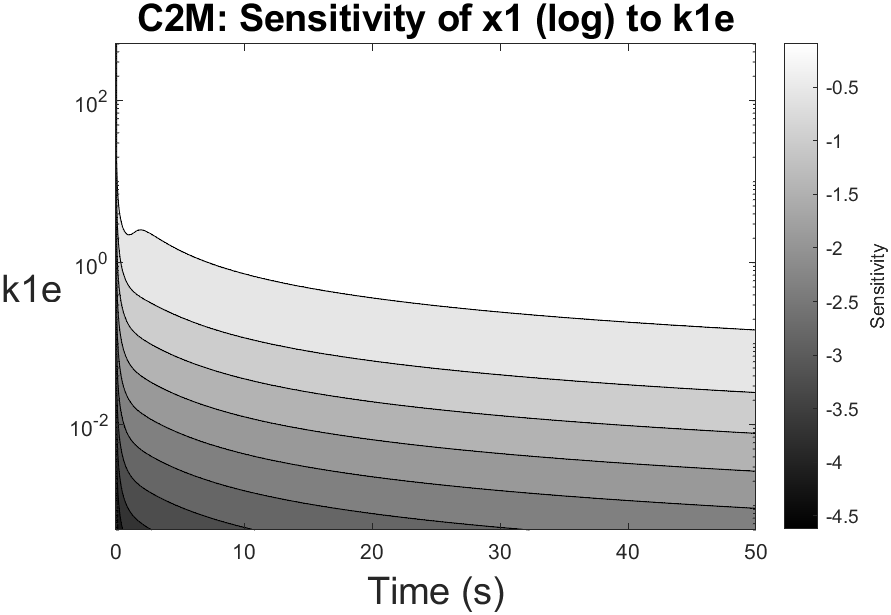
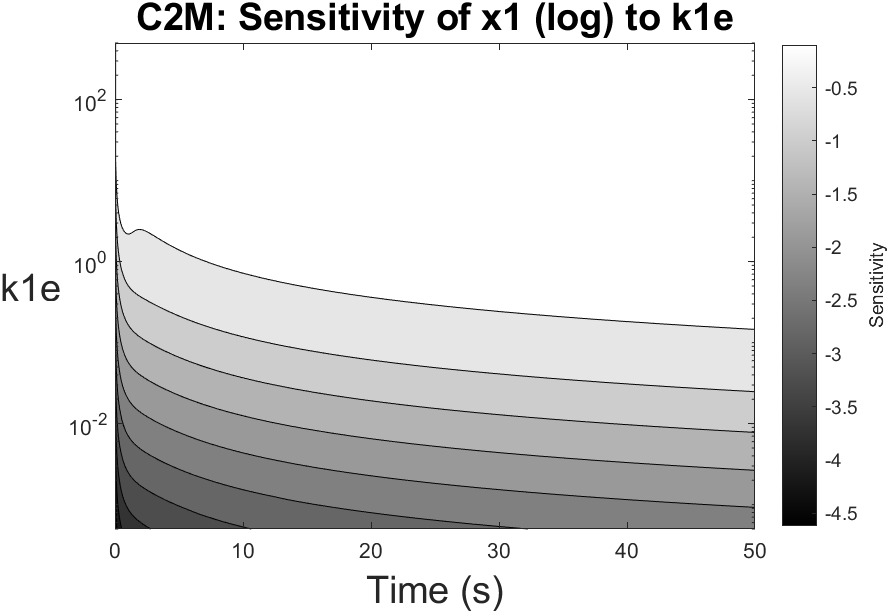
Support selective params and refactor sensitivity
Enable choosing which parameters to analyze and refactor the sensitivity loop. Added model.whichParamsAll/whichParams to C2M and OccupancyTCR option files, updated sensitivityParams.m to handle both "all parameters" and a selected subset (with parallel and non-parallel flows unified, waitbar updates, and plotting). Also changed default model to C2M in options.m and disabled the debug Test run in Main.m. Updated solver tolerances in run_options.txt (1e-4) and regenerated related sensitivity result images.

diff --git a/v.6/src/sensitivityParams.m b/v.6/src/sensitivityParams.m
@@ -2,92 +2,186 @@ function sensitivityParams(model, opts, ode_function)
 
         param_values_original = model.param_values;
         x0_real = model.x0;
-        num_params = length(model.param_values);
-        
-        % === LOOP OF PARAMETERS TO ANALYZE ===
-        % (Puede ser con cálculo paralelo o de manera normal)
-        h = waitbar(0, 'Computing sensitivity for parameter...');
-        for pI = 1:num_params  
-            tic
-            
-            if model.range_type == 1
 
-                % 3 magnitudes por encima y 3 por debajo
-                p0 = param_values_original(pI);
-                rango_min_param = p0 * 1e-3;
-                rango_max_param = p0 * 1e3;
-                ModelVect = logspace(log10(rango_min_param), log10(rango_max_param), model.number_samples);
+        if model.whichParamsAll
+            num_params = length(model.param_values);
             
-            elseif model.range_type == 2
-               
-                rango_min_param = model.param_ranges(pI,1);
-                rango_max_param = model.param_ranges(pI,2);
-                ModelVect = logspace(log10(rango_min_param), log10(rango_max_param), model.number_samples);
-            
-            elseif model.range_type == 3
-
-                ModelVect = model.param_ranges{pI};
-                model.number_samples = length(ModelVect);
-            
-            end 
+            % === LOOP OF PARAMETERS TO ANALYZE ===
+            % (Puede ser con cálculo paralelo o de manera normal)
+            h = waitbar(0, 'Computing sensitivity for parameter...');
+            for pI = 1:num_params  
+                tic
+                
+                if model.range_type == 1
     
-            results_matrix = zeros(model.number_samples, length(model.tspan));
+                    % 3 magnitudes por encima y 3 por debajo
+                    p0 = param_values_original(pI);
+                    rango_min_param = p0 * 1e-3;
+                    rango_max_param = p0 * 1e3;
+                    ModelVect = logspace(log10(rango_min_param), log10(rango_max_param), model.number_samples);
+                
+                elseif model.range_type == 2
+                   
+                    rango_min_param = model.param_ranges(pI,1);
+                    rango_max_param = model.param_ranges(pI,2);
+                    ModelVect = logspace(log10(rango_min_param), log10(rango_max_param), model.number_samples);
+                
+                elseif model.range_type == 3
+    
+                    ModelVect = model.param_ranges{pI};
+                    model.number_samples = length(ModelVect);
+                
+                end 
         
-            if opts.usar_paralelo
+                results_matrix = zeros(model.number_samples, length(model.tspan));
             
-                % En cálculo paralelo crearía problemas de eficiencia pasar las
-                % variables en forma de struct (sale un warning)
-                d = opts.d;
-                solver = opts.solver;
-                rel_tol = opts.rel_tol;
-                abs_tol = opts.abs_tol;
-    
-                parfor i = 1:model.number_samples
-    
-                    local_params = param_values_original;
-                    local_params(pI) = ModelVect(i);
-                    p = complex(local_params, 0);        
+                if opts.usar_paralelo
+                
+                    % En cálculo paralelo crearía problemas de eficiencia pasar las
+                    % variables en forma de struct (sale un warning)
+                    d = opts.d;
+                    solver = opts.solver;
+                    rel_tol = opts.rel_tol;
+                    abs_tol = opts.abs_tol;
+        
+                    parfor i = 1:model.number_samples
+        
+                        local_params = param_values_original;
+                        local_params(pI) = ModelVect(i);
+                        p = complex(local_params, 0);        
+                
+                        % Run the ODE integration with the modified parameters
+                        sol = sensitivityMain(x0_real, p, d, model.tspan, ode_function, solver, rel_tol, abs_tol);
+                
+                        % Extract the response corresponding to the status of interest
+                        response = sol{model.state_index}(:, pI + 1);
+                        % Evolución del estado sin sensibilizar al parámetro
+                        evoX = sol{model.state_index}(:, 1);
+                        normalized = (response .* ModelVect(i)) ./ evoX;
+                        results_matrix(i, :) = normalized;
+                    end
+                else
             
-                    % Run the ODE integration with the modified parameters
-                    sol = sensitivityMain(x0_real, p, d, model.tspan, ode_function, solver, rel_tol, abs_tol);
+                    for i = 1:model.number_samples
+                        
+                        % No modifico el original, hago una copia cada vez
+                        local_params = param_values_original;
+                        % Equivalente a p = complex([5e-5, koffVect(i), 1, 0.09, 1000, 10000, 1000], 0);
+                        local_params(pI) = ModelVect(i);
+                        p = complex(local_params, 0);        
+                
+                        % Run the ODE integration with the modified parameters
+                        sol = sensitivityMain(x0_real, p, opts.d, model.tspan, ode_function, opts.solver, opts.rel_tol, opts.abs_tol);
+                
+                        % Extract the response corresponding to the status of interest
+                        response = sol{model.state_index}(:, pI + 1);
+                        % Evolución del estado sin sensibilizar al parámetro
+                        evoX = sol{model.state_index}(:, 1);
+                        normalized = (response .* ModelVect(i)) ./ evoX;
+                        results_matrix(i, :) = normalized;
+                    end
             
-                    % Extract the response corresponding to the status of interest
-                    response = sol{model.state_index}(:, pI + 1);
-                    % Evolución del estado sin sensibilizar al parámetro
-                    evoX = sol{model.state_index}(:, 1);
-                    normalized = (response .* ModelVect(i)) ./ evoX;
-                    results_matrix(i, :) = normalized;
                 end
-            else
+                
+                waitbar(pI / num_params, h, ...
+                sprintf('Processing parameter %d of %d', pI, num_params));
         
-                for i = 1:model.number_samples
-                    
-                    % No modifico el original, hago una copia cada vez
-                    local_params = param_values_original;
-                    % Equivalente a p = complex([5e-5, koffVect(i), 1, 0.09, 1000, 10000, 1000], 0);
-                    local_params(pI) = ModelVect(i);
-                    p = complex(local_params, 0);        
-            
-                    % Run the ODE integration with the modified parameters
-                    sol = sensitivityMain(x0_real, p, opts.d, model.tspan, ode_function, opts.solver, opts.rel_tol, opts.abs_tol);
-            
-                    % Extract the response corresponding to the status of interest
-                    response = sol{model.state_index}(:, pI + 1);
-                    % Evolución del estado sin sensibilizar al parámetro
-                    evoX = sol{model.state_index}(:, 1);
-                    normalized = (response .* ModelVect(i)) ./ evoX;
-                    results_matrix(i, :) = normalized;
-                end
-        
+                PlotResults(results_matrix, ode_function, model.param_values, model.x0, model.tspan, ModelVect, pI, model.state_index, model.param_names, model.state_names, opts);
+                disp(['Generated figures for parameter ' num2str(pI) ' of ' num2str(length(model.param_values))]);
+                toc
             end
+            close(h);
+        else
+
+            num_params = length(model.whichParams);
+            [found, idx] = ismember(model.whichParams, model.param_names);
             
-            waitbar(pI / num_params, h, ...
-            sprintf('Processing parameter %d of %d', pI, num_params));
+            % === LOOP OF PARAMETERS TO ANALYZE ===
+            % (Puede ser con cálculo paralelo o de manera normal)
+            h = waitbar(0, 'Computing sensitivity for parameter...');
+            for pI = idx  
+                tic
+                
+                if model.range_type == 1
     
-            PlotResults(results_matrix, ode_function, model.param_values, model.x0, model.tspan, ModelVect, pI, model.state_index, model.param_names, model.state_names, opts);
-            disp(['Generated figures for parameter ' num2str(pI) ' of ' num2str(length(model.param_values))]);
-            toc
+                    % 3 magnitudes por encima y 3 por debajo
+                    p0 = param_values_original(pI);
+                    rango_min_param = p0 * 1e-3;
+                    rango_max_param = p0 * 1e3;
+                    ModelVect = logspace(log10(rango_min_param), log10(rango_max_param), model.number_samples);
+                
+                elseif model.range_type == 2
+                   
+                    rango_min_param = model.param_ranges(pI,1);
+                    rango_max_param = model.param_ranges(pI,2);
+                    ModelVect = logspace(log10(rango_min_param), log10(rango_max_param), model.number_samples);
+                
+                elseif model.range_type == 3
+    
+                    ModelVect = model.param_ranges{pI};
+                    model.number_samples = length(ModelVect);
+                
+                end 
+        
+                results_matrix = zeros(model.number_samples, length(model.tspan));
+            
+                if opts.usar_paralelo
+                
+                    % En cálculo paralelo crearía problemas de eficiencia pasar las
+                    % variables en forma de struct (sale un warning)
+                    d = opts.d;
+                    solver = opts.solver;
+                    rel_tol = opts.rel_tol;
+                    abs_tol = opts.abs_tol;
+        
+                    parfor i = 1:model.number_samples
+        
+                        local_params = param_values_original;
+                        local_params(pI) = ModelVect(i);
+                        p = complex(local_params, 0);        
+                
+                        % Run the ODE integration with the modified parameters
+                        sol = sensitivityMain(x0_real, p, d, model.tspan, ode_function, solver, rel_tol, abs_tol);
+                
+                        % Extract the response corresponding to the status of interest
+                        response = sol{model.state_index}(:, pI + 1);
+                        % Evolución del estado sin sensibilizar al parámetro
+                        evoX = sol{model.state_index}(:, 1);
+                        normalized = (response .* ModelVect(i)) ./ evoX;
+                        results_matrix(i, :) = normalized;
+                    end
+                else
+            
+                    for i = 1:model.number_samples
+                        
+                        % No modifico el original, hago una copia cada vez
+                        local_params = param_values_original;
+                        % Equivalente a p = complex([5e-5, koffVect(i), 1, 0.09, 1000, 10000, 1000], 0);
+                        local_params(pI) = ModelVect(i);
+                        p = complex(local_params, 0);        
+                
+                        % Run the ODE integration with the modified parameters
+                        sol = sensitivityMain(x0_real, p, opts.d, model.tspan, ode_function, opts.solver, opts.rel_tol, opts.abs_tol);
+                
+                        % Extract the response corresponding to the status of interest
+                        response = sol{model.state_index}(:, pI + 1);
+                        % Evolución del estado sin sensibilizar al parámetro
+                        evoX = sol{model.state_index}(:, 1);
+                        normalized = (response .* ModelVect(i)) ./ evoX;
+                        results_matrix(i, :) = normalized;
+                    end
+            
+                end
+                
+                waitbar(pI / num_params, h, ...
+                sprintf('Processing parameter %d of %d', pI, num_params));
+        
+                PlotResults(results_matrix, ode_function, model.param_values, model.x0, model.tspan, ModelVect, pI, model.state_index, model.param_names, model.state_names, opts);
+                disp(['Generated figures for parameter ' num2str(pI) ' of ' num2str(length(model.param_values))]);
+                toc
+            end
+            close(h);
+
         end
-        close(h);
 
 end

diff --git a/v.6/models/OccupancyTCR_options.m b/v.6/models/OccupancyTCR_options.m
@@ -13,6 +13,12 @@ model.x0 = [0, 100, 2e4];
 % === STATE TO ANALYZE ===
 model.state_to_analyze = 'C0';
 
+% === TO WHICH PARAMETERS WOULD YOU LIKE TO ANALYSE? ===
+% All the parameters?
+model.whichParamsAll = true;
+% Define the parameters
+model.whichParams = {'kon', 'koff'};
+
 % === TIME CONFIGURATION ===
 model.step_size = 0.05;
 model.t_end     = 50;

diff --git a/v.6/models/C2M_options.m b/v.6/models/C2M_options.m
@@ -13,6 +13,12 @@ model.x0 = [0.5, 0.5];
 % === STATE TO ANALYZE ===
 model.state_to_analyze = 'x1';
 
+% === TO WHICH PARAMETERS WOULD YOU LIKE TO ANALYSE? ===
+% All the parameters?
+model.whichParamsAll = false;
+% Define the parameters
+model.whichParams = {'k1e', 'k21'};
+
 % === TIME CONFIGURATION ===
 model.step_size = 0.05;
 model.t_end     = 50;

diff --git a/v.6/options.m b/v.6/options.m
@@ -5,7 +5,7 @@ function opts = options()
 
     % === MODEL SELECTION ===
     %   Acronym given to the model in the file in models folder
-    opts.modelname     = 'OccupancyTCR';          
+    opts.modelname     = 'C2M';          
     
     % === TOLERANCES ===
     opts.rel_tol = 1e-4;                 %   Relative Tolerance.   

diff --git a/v.6/Main.m b/v.6/Main.m
@@ -32,7 +32,7 @@ addpath('models');
 
 % Test previo de tiempos e integradores: probar todos los integradores
 % existentes de Matlab y comprobar los tiempos de integración y exactitud.
-Test = true;
+Test = false;
 if Test
     results = FirstTest();
     return
